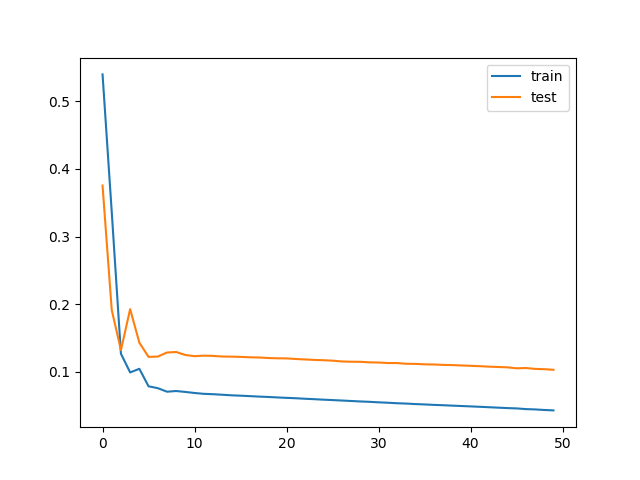
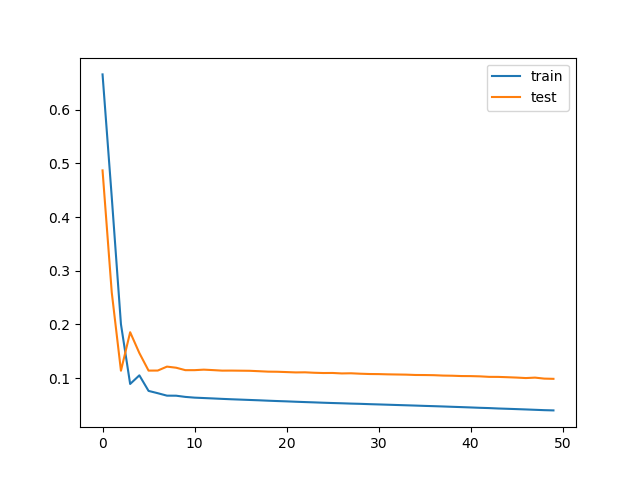
update README

diff --git a/src/lstm_model.py b/src/lstm_model.py
@@ -1,6 +1,7 @@
 #https://machinelearningmastery.com/multivariate-time-series-forecasting-lstms-keras/
 import os
 import time
+import math
 import warnings
 import numpy as np
 import pandas as pd
@@ -11,6 +12,7 @@ from keras.models import Sequential
 from sklearn.preprocessing import LabelEncoder, MinMaxScaler
 from sklearn.metrics import mean_squared_error
 import matplotlib.pyplot as plt
+
 
 def data_clean(df):
     df.fillna(0, inplace=True)
@@ -73,7 +75,7 @@ def splitting(reframed):
     test_X = test_X.reshape((test_X.shape[0], 1, test_X.shape[1]))
     return train_X, train_y, test_X, test_y
 
-def modelling(train_X, train_y, test_X, test_y, scaler):
+def modeling(train_X, train_y, test_X, test_y, scaler):
     # design network
     model = Sequential()
     model.add(LSTM(50, input_shape=(train_X.shape[1], train_X.shape[2])))
@@ -101,7 +103,7 @@ def modelling(train_X, train_y, test_X, test_y, scaler):
     inv_y = scaler.inverse_transform(inv_y)
     inv_y = inv_y[:,0]
     # calculate RMSE
-    rmse = np.sqrt(mean_squared_error(inv_y, inv_yhat))
+    rmse = math.sqrt(mean_squared_error(inv_y, inv_yhat))
     print('Test RMSE: %.3f' % rmse)
 
 if __name__ == '__main__':
@@ -109,4 +111,4 @@ if __name__ == '__main__':
     df = pd.read_pickle('../data/df_weather.pkl')
     reframed, scaler = data_clean(df)
     train_X, train_y, test_X, test_y = splitting(reframed)
-    modelling(train_X, train_y, test_X, test_y, scaler)
+    modeling(train_X, train_y, test_X, test_y, scaler)

diff --git a/README.md b/README.md
@@ -14,3 +14,15 @@ from these sites).
 It was assumed that hive data was recorded either a single location within a zip code or with multiple locations spread across a single zip code. The graph below reflects all of the different hives recording data throughout the year long test period.
 [Hive Data by Zip](/img/Hive_Data_by_Zip.png).
 Once Nan columns were eliminated and the appropriate additional weather data was merged, preliminary modeling could begin.
+
+## Modeling ##
+Autoregressive integrated moving average ([ARIMA](https://en.wikipedia.org/wiki/Autoregressive_integrated_moving_average)) models and Long Short Term Memory ([LSTM](https://en.wikipedia.org/wiki/Long_short-term_memory)) networks were used to perform time-series analysis on the data.
+[ARIMA](\img\ARIMA_RSS.png)
+The ARIMA model had a test RMSE of 0.1138. The Multivariate LSTM network, on the other hand, had a test RMSE of 10.752.
+[LSTM Multivariate](/img/LSTM.png)
+Parameters have yet to be played around with though so these numbers will likely improve in the future.
+
+### References ###
+[Multivariate LSTMs](https://machinelearningmastery.com/multivariate-time-series-forecasting-lstms-keras/
+)
+[]
